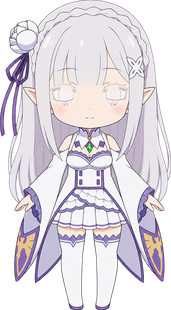
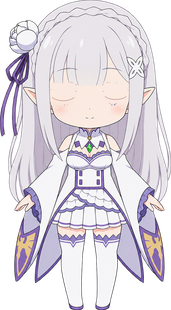
fix(pet): 眨眼改为整帧切换，彻底去掉补丁白边与残留睫毛
- 闭眼帧由底图直接派生（同一画布、同一分辨率），不再用贴片 → 不存在补丁边界/白边，也不会有错位
- 眼区掩膜 = 眼内非皮肤像素凸包 + MaxFilter(9)（外扩 4px，连上下睫毛一起覆盖），高斯 2px 羽化
- 填充为眼周皮肤环上/中/下三段纵向渐变；睫毛只保留一条柔和弧线(198,158,148)
- 校验（1× 素材实测）：闭眼帧眼区 均色(244,226,218)、近白 0、深色<120 0、紫 0；睁眼帧同区 深色 151/近白 84（虹膜）
- 移除 lid 补丁层，v=20261030e / codeVer 20261030.5

diff --git a/source/js/pet.js b/source/js/pet.js
@@ -33,8 +33,11 @@
   var bubbleTimer = null, lastPath = null, raf = 0;
 
   /* ---------- 伪 2.5D：整卡透视倾斜 ---------- */
-  var ASSET_V = '?v=20261030d';
-  var PET_VER = '20261030.4';   // 内容指纹：改素材必须同步改这里，否则 CDN 7 天缓存不会更新
+  var ASSET_V = '?v=20261030e';
+  var PET_VER = '20261030.5';   // 内容指纹：改素材必须同步改这里，否则 CDN 7 天缓存不会更新
+  var SPRITE_CLOSED_1X = '/images/pet/front_closed_310.webp' + ASSET_V;
+  var SPRITE_CLOSED_2X = '/images/pet/front_closed_620.webp' + ASSET_V;
+  var SPRITE_CLOSED_3X = '/images/pet/front_closed_930.webp' + ASSET_V;
   var SPRITE_1X = '/images/pet/front_310.webp' + ASSET_V;
   var SPRITE_2X = '/images/pet/front_620.webp' + ASSET_V;
   var SPRITE_3X = '/images/pet/front_930.webp' + ASSET_V;
@@ -43,16 +46,11 @@
     { src: '/images/pet/iris_l.webp' + ASSET_V, src2: '/images/pet/iris_l@2x.webp' + ASSET_V, x: 34.12, y: 27.9, w: 8.97, h: 5.84 },
     { src: '/images/pet/iris_r.webp' + ASSET_V, src2: '/images/pet/iris_r@2x.webp' + ASSET_V, x: 61.76, y: 27.82, w: 8.82, h: 5.84 }
   ];
-  var LIDS = [
-    { src: '/images/pet/lid_l.webp', src2: '/images/pet/lid_l@2x.webp', x: 29.41, y: 26.6, w: 15.15, h: 7.38 },
-    { src: '/images/pet/lid_r.webp', src2: '/images/pet/lid_r@2x.webp', x: 60.15, y: 26.52, w: 15.0, h: 7.06 }
-  ];
   var MAX_EYE_X = 1.2, MAX_EYE_Y = 0.8;   // 幅度收敛：只在眼眶内小幅游移   // 虹膜最大位移（CSS px，1x）
   var TILT_START = 0.68;                  // 指针偏移超过这个比例才开始带头部倾斜
   var MAX_TILT_Y = 1.5, MAX_TILT_X = 1.0;   // 头部倾斜幅度（比原来收敛一半以上）
   var artEl = null;             // 承载倾斜的 card
   var eyeEls = [];              // 虹膜补丁（跟随）
-  var lidEls = [];              // 眼睑补丁（眨眼瞬间显示）
   var layers = [];              // 兼容旧接口，sprite 模式恒为空
   var headTilt = null;
   var target = { x: 0, y: 0 };  // 归一化指针方向 [-1,1]
@@ -195,12 +193,7 @@
     eyeEls = [];
     for (var i = 0; i < EYES.length; i++) addLayer(card, EYES[i], 'pet-eye', eyeEls);
     // 睫毛层最后添加 → 永远盖在虹膜之上，虹膜移动时被它裁住不会越界
-    // 眼睑层最后 → 眨眼时只盖住眼睛，底图不换，避免“眨一下突然变清晰”
-    lidEls = [];
-    for (var n = 0; n < LIDS.length; n++) {
-      var le = addLayer(card, LIDS[n], 'pet-lid', lidEls);
-      le.style.opacity = '0';
-    }
+
   }
 
   function mountArt(card) {
@@ -218,7 +211,7 @@
 
 
   /* ---------- 眨眼：两帧换图（闭眼帧已预载，切换无闪烁） ---------- */
-  var blinkTimer = null, blinkOn = false;
+  var blinkTimer = null, blinkOn = false, closedEl = null;
 
   function setClosed(on) {
     if (closedEl) closedEl.style.opacity = on ? '1' : '0';
@@ -230,13 +223,13 @@
   }
 
   function blinkOnce() {
-    if (!el || document.hidden) { scheduleBlink(); return; }
+    if (!el || !closedEl || document.hidden) { scheduleBlink(); return; }
     blinkOn = true;
     for (var i = 0; i < eyeEls.length; i++) eyeEls[i].style.opacity = '0';
-    for (var n = 0; n < lidEls.length; n++) lidEls[n].style.opacity = '1';
+    if (closedEl) closedEl.style.opacity = '1';
     setTimeout(function () {
       blinkOn = false;
-      for (var n2 = 0; n2 < lidEls.length; n2++) lidEls[n2].style.opacity = '0';
+      if (closedEl) closedEl.style.opacity = '0';
       for (var j = 0; j < eyeEls.length; j++) eyeEls[j].style.opacity = '1';
       scheduleBlink();
     }, 135);
@@ -307,6 +300,17 @@
     img.decoding = 'async';
     card.appendChild(img);
 
+    if (!card.querySelector('.pet-closed')) {
+      var cimg = document.createElement('img');
+      cimg.className = 'pet-closed';
+      cimg.alt = '';
+      cimg.draggable = false;
+      cimg.src = SPRITE_CLOSED_1X;
+      cimg.srcset = SPRITE_CLOSED_2X + ' 2x, ' + SPRITE_CLOSED_3X + ' 3x';
+      cimg.style.opacity = '0';
+      card.appendChild(cimg);
+      closedEl = cimg;
+    }
     art.appendChild(card);
     art.setAttribute('data-credit', '角色形象：阿万提供（AI 生成三视图），见 /images/pet/ATTRIBUTION.md');
     el.appendChild(art);

diff --git a/source/css/pet.css b/source/css/pet.css
@@ -32,6 +32,15 @@
 }
 
 /* 眼睛跟随补丁：叠在精灵上，只做小范围位移 */
+#pet-widget .pet-card > .pet-closed {
+  position: absolute;
+  inset: 0;
+  width: 100%;
+  height: 100%;
+  pointer-events: none;
+  opacity: 0;
+}
+
 #pet-widget .pet-eye,
 #pet-widget .pet-lid {
   position: absolute;
